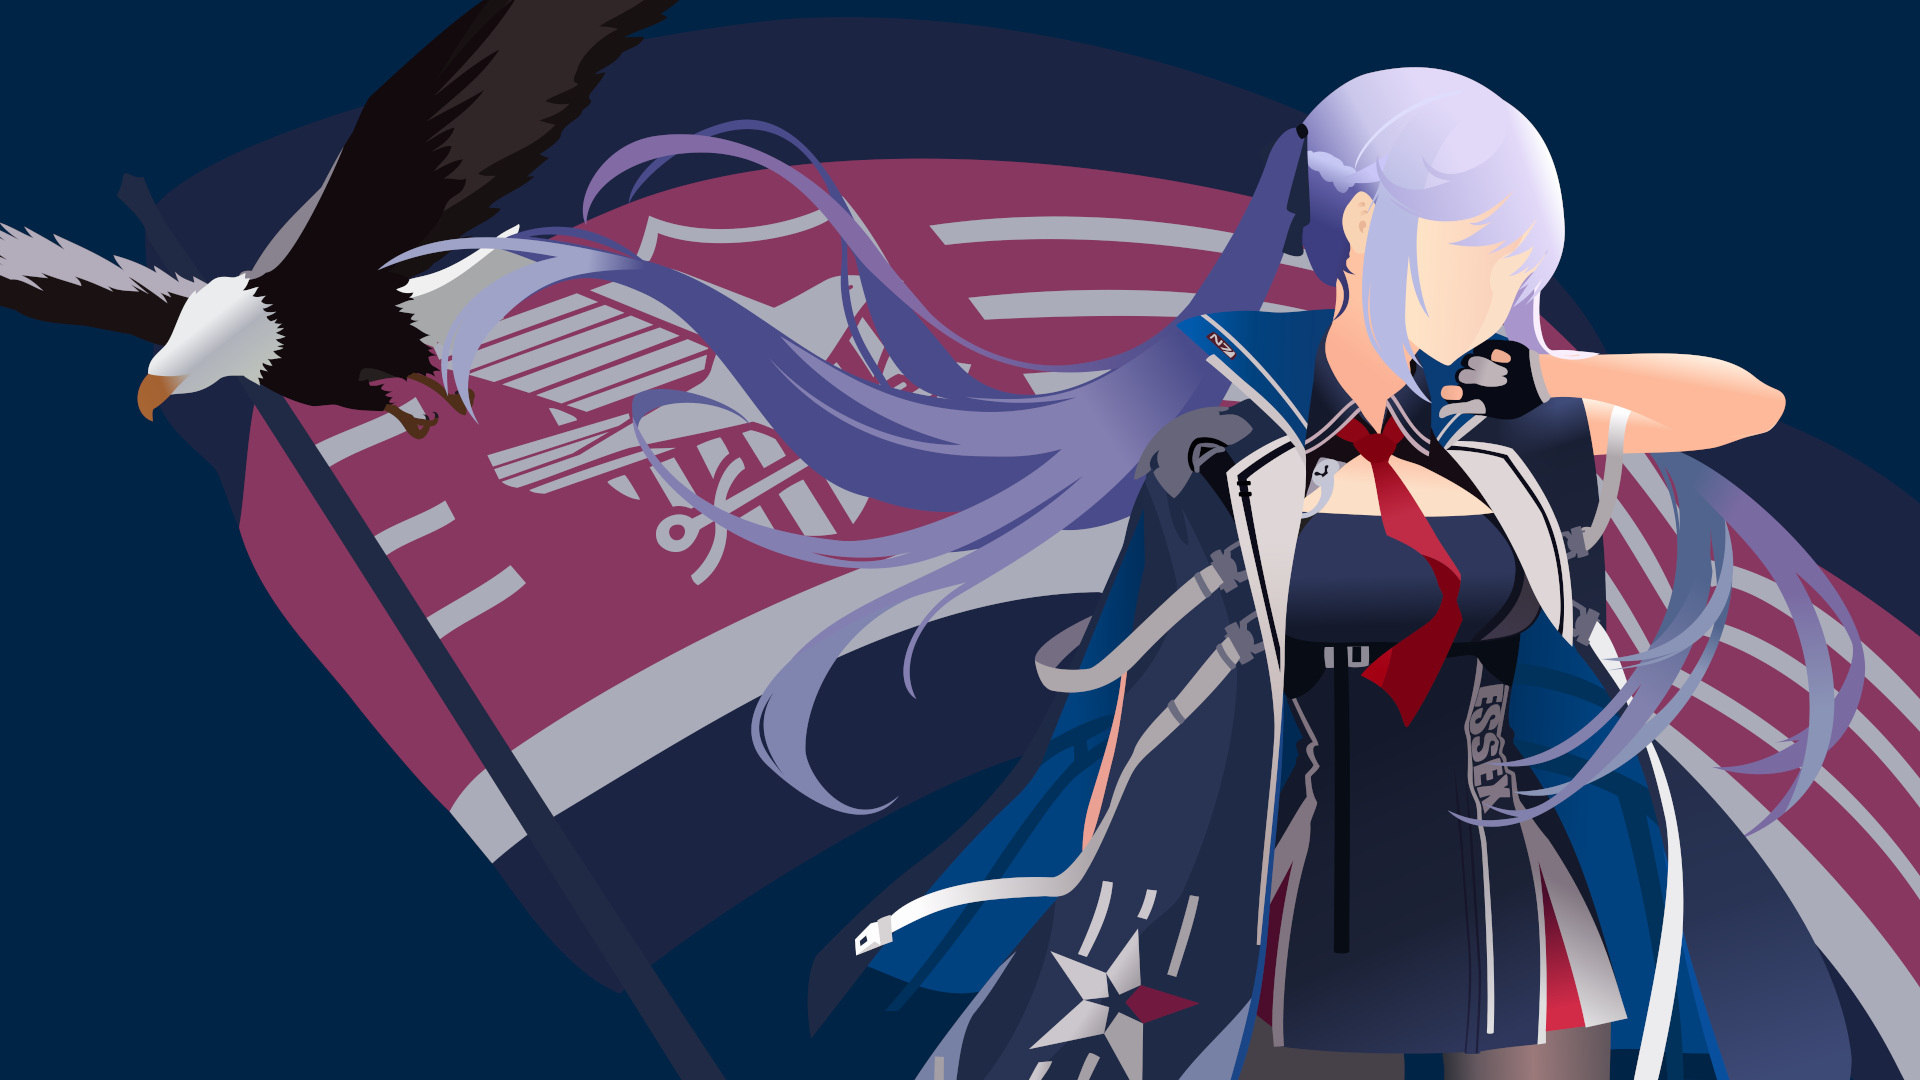
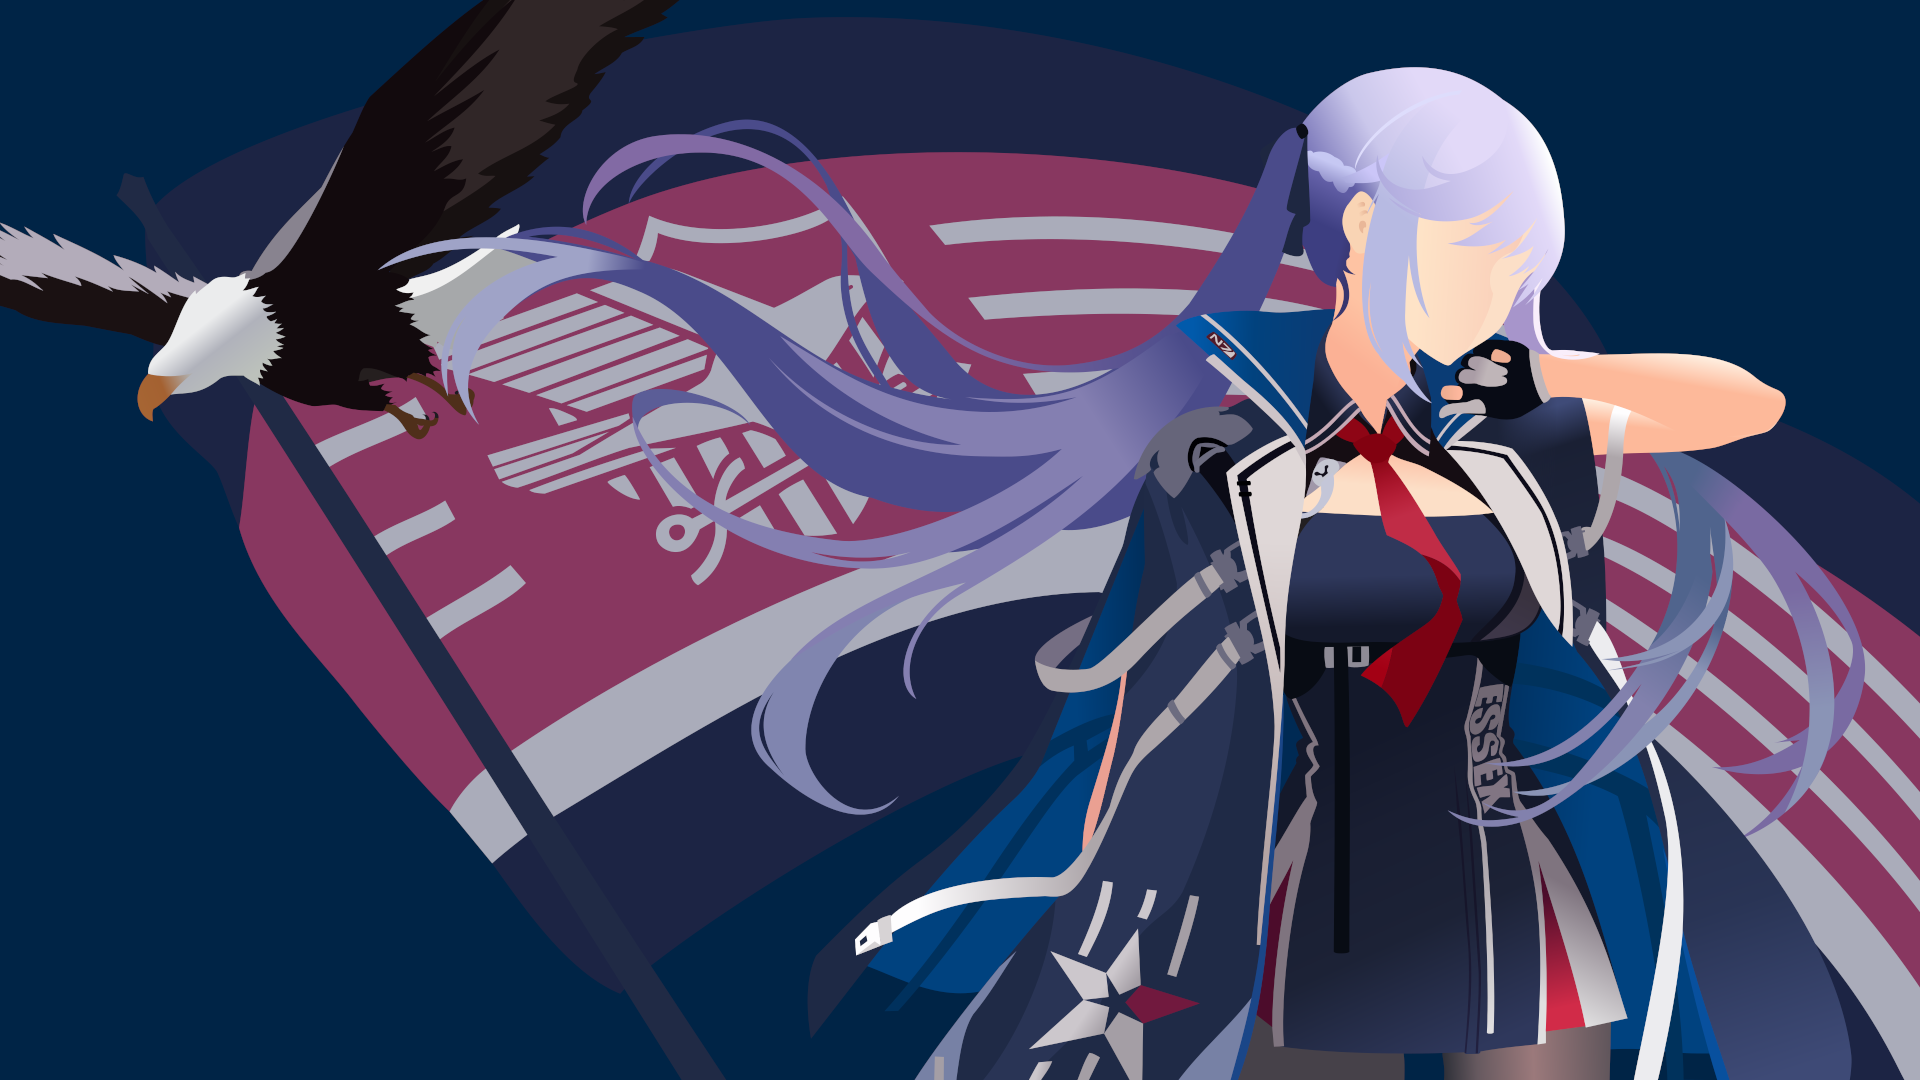
Updated changelog & updated Essex's secondary asset

diff --git a/CHANGELOG.md b/CHANGELOG.md
@@ -2,6 +2,27 @@ Changelog
 ---
 
 # Unreleased
+
+# 17.0.0 [Holiday Release]
+
+**3 New Dark Themes!**
+ 
+- Celebrate Christmas with Chocola from the NekoPara Series!
+_I lied about Shigure being the last addition from NekoPara._
+
+- The 4th of July now just got even better, now that you can code with Essex from Azur Lane.
+If you prefer a more canon experience, Essex's theme also has **secondary content** with the Eagle Union branding.
+
+- Even though I missed this year's Halloween, I've got something to look forward to in 2022.
+Yotsuba, from The Quintessential Quintuplets, isn't 2spooky4me.
+
+
+![v22 Girls](https://doki.assets.unthrottled.io/misc/v22_girls.png)
+
+#### Other Stuff
+
+- Moved Tohsaka Rin's wallpaper over to the right.
+
 # 16.0.1 [Firefox: Fix Options]
 - Fix theme breaking when enabling/disabling textbox selection/scrollbar options.
 - Remove edges from search bar
